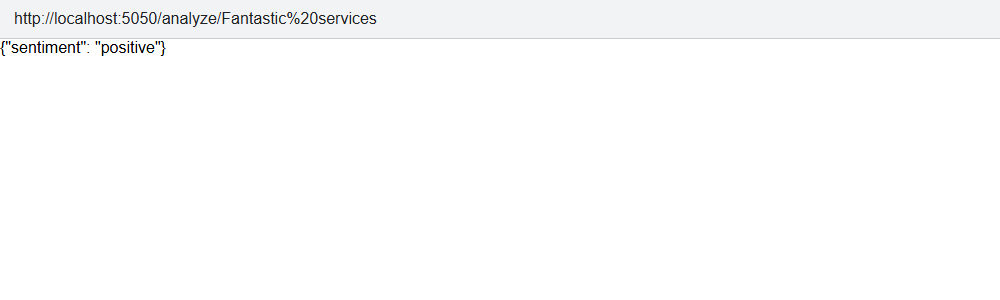
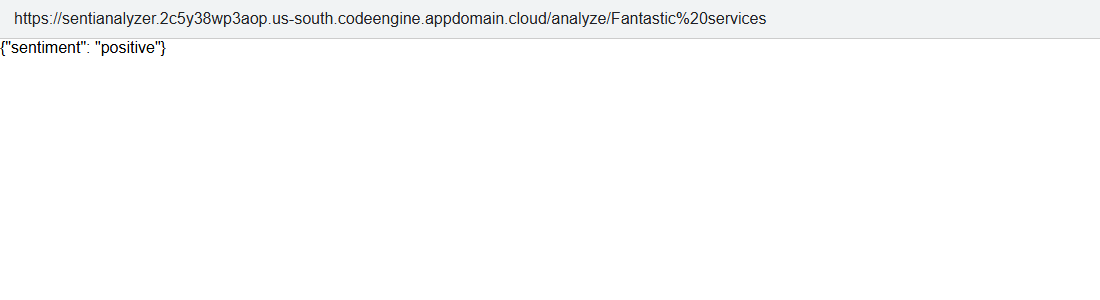
Update sentiment analyzer screenshot for real Code Engine deployment

Changed region(s): [[0.0, 0.03, 0.713, 0.09], [0.0, 0.12, 0.186, 0.18]]

diff --git a/submission/SUBMISSION.md b/submission/SUBMISSION.md
@@ -77,11 +77,13 @@ Check items off here as they're completed; note the screenshot filename once cap
   - Verified all endpoints locally at http://localhost:3030 — screenshots `node-fetchreviews.png`, `node-fetchdealers.png`
   - Saved curl transcripts: `getdealerreviews.txt`, `getalldealers.txt`, `getdealerbyid.txt`, `getdealersbyState.txt`
   - Pushed (commit 8f8fd82)
-- [x] Sentiment analyzer deployed
-  - IBM Cloud Code Engine not available in this local environment (no `ibmcloud` CLI/account) — ran `server/djangoapp/microservices` (Flask + NLTK VADER) locally via Docker instead: `docker build . -t senti_analyzer` + `docker run -p 5050:5000 senti_analyzer`
+- [x] Sentiment analyzer deployed on real IBM Cloud Code Engine
+  - Deployed from an actual SN Labs session: `docker build`/`push` to `us.icr.io/sn-labs-strydomlouis/senti_analyzer`, then `ibmcloud ce application create --name sentianalyzer --image ... --registry-secret icr-secret --port 5000`
+  - Live URL: https://sentianalyzer.2c5y38wp3aop.us-south.codeengine.appdomain.cloud
   - Verified `/analyze/Fantastic%20services` → `{"sentiment": "positive"}`
-  - Saved curl transcript: `analyzereview.txt`; screenshot (URL + result): `sentiment_analyzer.png`
-  - **TODO for you**: if the grading requires an actual Code Engine URL, deploy `server/djangoapp/microservices` there separately and update `sentiment_analyzer_url` in `djangoapp/.env`
+  - `djangoapp/.env` `sentiment_analyzer_url` updated to the real Code Engine URL (was localhost)
+  - Saved curl transcript: `analyzereview.txt`; screenshot (URL + result): `sentiment_analyzer.png` — both updated to reflect the real deployment
+  - Pushed from SN Labs directly (commit 52135f6), pulled back into local clone and re-captured the screenshot for consistency
 - [x] Django models/views for car make & model
   - `CarMake`/`CarModel` models added (`djangoapp/models.py`), migrated via `makemigrations djangoapp` + `migrate --run-syncdb`
   - Registered in Django admin with `CarModelInline` under `CarMakeAdmin` (`djangoapp/admin.py`)